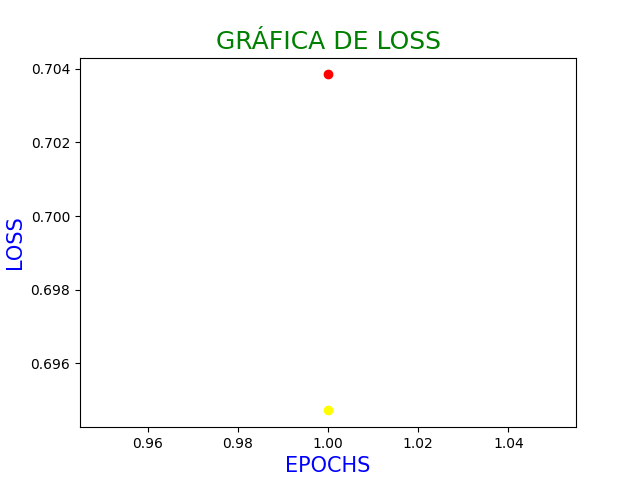
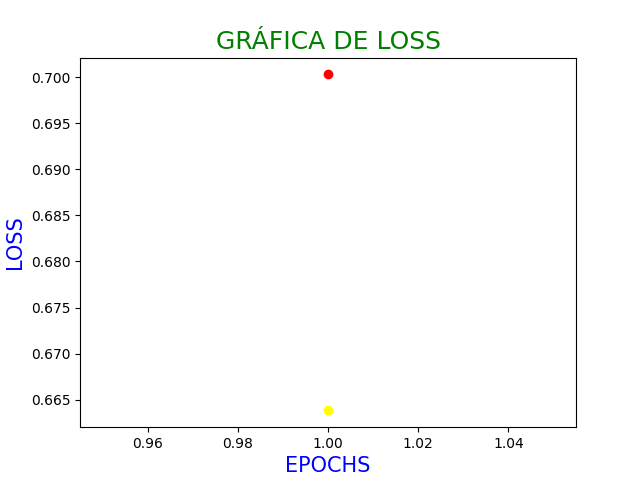
update model

diff --git a/model.py b/model.py
@@ -40,4 +40,16 @@ class ASL_Model(nn.Module):
 
   def forward(self, images):
     # Propagación hacia adelante del modelo
-    x = self.feature
+    x=self.feature_extractor(images) 
+
+    h=x.register_hook(self.activations_hook)
+    x=self.maxpool(x)
+    x=self.classifier(x)
+
+    return x
+
+  def get_activation_gradients(self): #a1, a2, a3, ... ak
+    return self.gradient
+
+  def get_activation(self, x): #A1, A2, A3, ... Ak
+    return self.feature_extractor(x)

diff --git a/train.py b/train.py
@@ -10,7 +10,7 @@ DEVICE = 'cuda' if torch.cuda.is_available() else 'cpu'
 
 BATCH_SIZE = 16
 LR = 0.001
-EPOCHS = 11
+EPOCHS = 1
 
 # Función de entrenamiento
 def train_fn(dataloader, model, optimizer, criterion):
